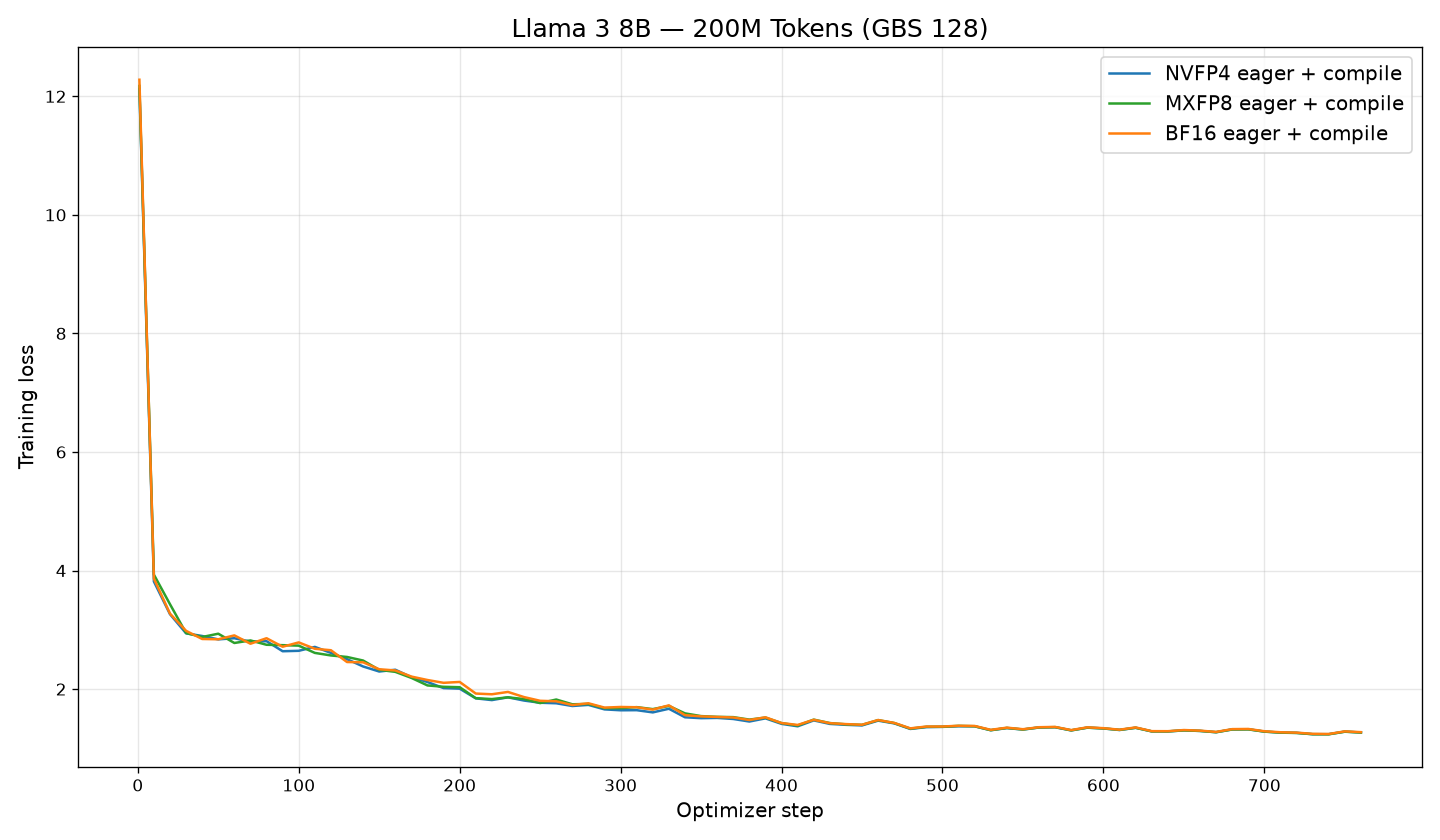
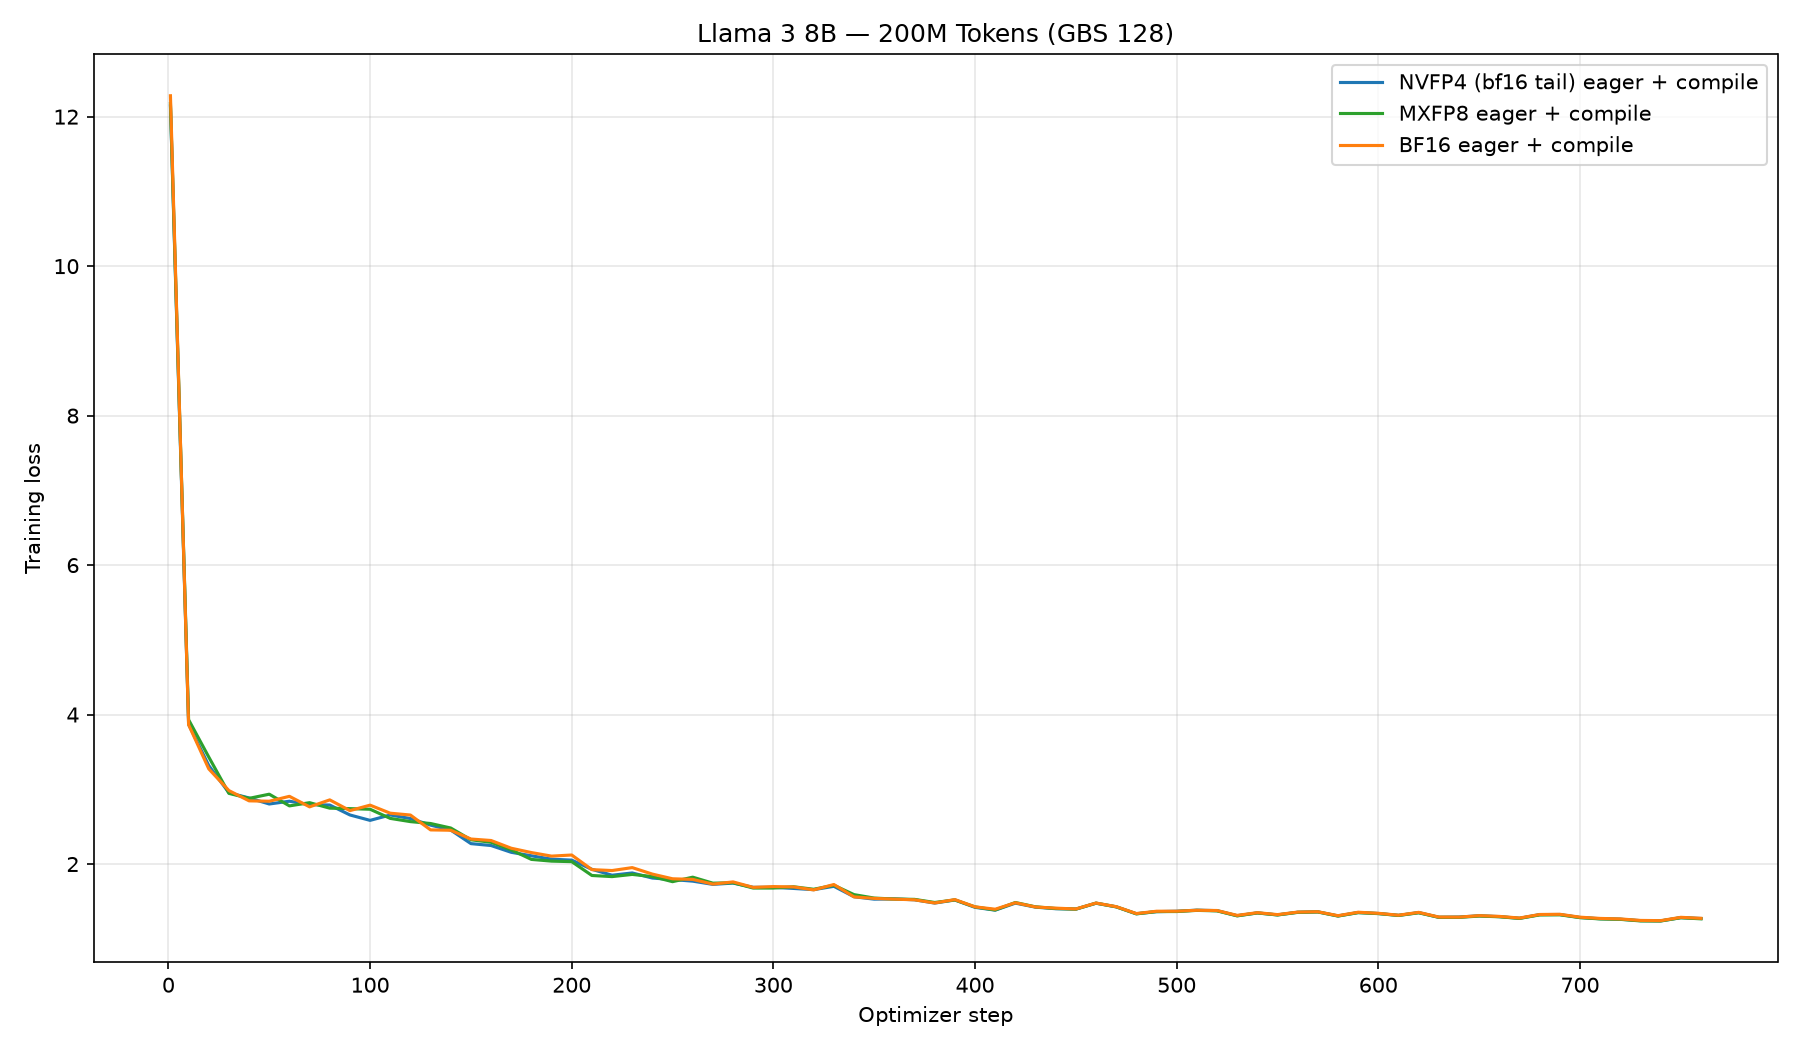
Add NVFP4 bf16-tail run to Llama3 eager-trainer comparison
Wire the mixed-precision NVFP4 recipe (last ~15% of decoder layers kept in
bf16) into run_titan.py and run it at the same config as the prior 200M-token
fsdp4 comparison runs, then regenerate the training-loss plot.

- run_titan.py: add --nvfp4-mixed flag (single + multi) selecting the
  llama3_8b_nvfp4_mixed config flavor. Existing --nvfp4 (full NVFP4) unchanged.
- Bump third_party/torchtitan to a057292 (adds the *_nvfp4_mixed flavors).
- plot_eager_trainer_loss.py: reusable script that regenerates the PNG from
  the run logs (parser reused from run_titan.py).
- run_logs/eager_trainer: new fsdp4 nvfp4_mixed log (.txt) + notes (.md);
  regenerated PNG with the NVFP4 line relabeled "NVFP4 (bf16 tail)".

Final loss @ step 760: 1.2715 (nvfp4 full 1.2687, mxfp8 1.2671, bf16 1.2738).
Throughput 30,040 tps, memory 110.95 GiB -- ~5% slower / ~8 GiB more than full
NVFP4 (bf16-tail GEMMs+weights), still well ahead of MXFP8/BF16.

diff --git a/llama3/run_titan.py b/llama3/run_titan.py
@@ -163,6 +163,16 @@ def _hf_assets_path_for_config(base_config: str) -> str | None:
     return None
 
 
+def _nvfp4_flavor_suffix(args) -> str:
+    # NVFP4 flavors bake in the converter + compile; `_nvfp4_mixed` additionally
+    # keeps the last ~15% of decoder layers in bf16 (bf16-tail recipe).
+    if args.nvfp4_mixed:
+        return "_nvfp4_mixed"
+    if args.nvfp4:
+        return "_nvfp4"
+    return ""
+
+
 def _precision_flags(nvfp4: bool, mxfp8: bool) -> list[str]:
     # NVFP4 is selected via the `_nvfp4` config flavor (NVFP4LinearConverter baked
     # in, compile enabled), not an override import. MXFP8 still uses its override.
@@ -171,7 +181,9 @@ def _precision_flags(nvfp4: bool, mxfp8: bool) -> list[str]:
     return []
 
 
-def _precision_tag(nvfp4: bool, mxfp8: bool) -> str:
+def _precision_tag(nvfp4: bool, mxfp8: bool, nvfp4_mixed: bool = False) -> str:
+    if nvfp4_mixed:
+        return "nvfp4_mixed"
     if nvfp4:
         return "nvfp4"
     if mxfp8:
@@ -234,14 +246,14 @@ def run_single(args):
     smoke = args.smoke
     base_config = "llama3_debugmodel" if smoke else "llama3_8b"
     module = _trainer_module(args.graph)
-    flavor = base_config + ("_nvfp4" if args.nvfp4 else "")
+    flavor = base_config + _nvfp4_flavor_suffix(args)
     config = _trainer_config(flavor, args.graph)
     dataset = "c4_test" if smoke else "c4"
     steps = 10 if smoke else SINGLE_STEPS_CEILING
     wall_hours = 5 / 60 if smoke else SINGLE_WALL_HOURS
     gpu = args.gpu
 
-    precision = _precision_tag(args.nvfp4, args.mxfp8)
+    precision = _precision_tag(args.nvfp4, args.mxfp8, args.nvfp4_mixed)
     label_parts = [precision]
     if args.graph:
         label_parts.append("graph")
@@ -408,10 +420,17 @@ def _multi_cmd(
 
 
 def _multi_label(
-    exp: dict, compile_enabled: bool, nvfp4: bool, mxfp8: bool, graph: bool
+    exp: dict,
+    compile_enabled: bool,
+    nvfp4: bool,
+    mxfp8: bool,
+    graph: bool,
+    nvfp4_mixed: bool = False,
 ) -> str:
     parts = [exp["name"]]
-    if nvfp4:
+    if nvfp4_mixed:
+        parts.append("nvfp4_mixed")
+    elif nvfp4:
         parts.append("nvfp4")
     elif mxfp8:
         parts.append("mxfp8")
@@ -435,7 +454,7 @@ def run_multi(args):
     # smoke run with a TP shape.
     needs_8b = (
         smoke
-        and args.nvfp4
+        and (args.nvfp4 or args.nvfp4_mixed)
         and any(
             e["tp"] > 1
             for e in MULTI_EXPERIMENTS
@@ -444,7 +463,7 @@ def run_multi(args):
     )
     base_config = "llama3_8b" if needs_8b or not smoke else "llama3_debugmodel"
     module = _trainer_module(args.graph)
-    flavor = base_config + ("_nvfp4" if args.nvfp4 else "")
+    flavor = base_config + _nvfp4_flavor_suffix(args)
     config = _trainer_config(flavor, args.graph)
     if args.data is None:
         args.data = "c4_test" if smoke else "c4"
@@ -462,7 +481,7 @@ def run_multi(args):
             f"Choices: {[e['name'] for e in MULTI_EXPERIMENTS]}"
         )
 
-    precision = _precision_tag(args.nvfp4, args.mxfp8)
+    precision = _precision_tag(args.nvfp4, args.mxfp8, args.nvfp4_mixed)
     print()
     print("=" * 72)
     print(
@@ -500,7 +519,7 @@ def run_multi(args):
         world_size = exp["tp"] * exp["fsdp"]
         batch_size = args.batch_size or exp["batch_size"]
         label = _multi_label(
-            exp, args.compile, args.nvfp4, args.mxfp8, args.graph
+            exp, args.compile, args.nvfp4, args.mxfp8, args.graph, args.nvfp4_mixed
         )
         log_path = RESULTS_DIR / f"{ts}_titan_multi_{label}.txt"
 
@@ -660,6 +679,11 @@ def main():
         help="Enable NVFP4 via the `_nvfp4` config flavor (converter; compile baked in)",
     )
     single_precision.add_argument(
+        "--nvfp4-mixed",
+        action="store_true",
+        help="Enable mixed NVFP4 via the `_nvfp4_mixed` flavor (last ~15%% of layers kept in bf16)",
+    )
+    single_precision.add_argument(
         "--mxfp8",
         action="store_true",
         help=f"Enable torchao MXFP8 via override module {MXFP8_OVERRIDE_MODULE}",
@@ -723,6 +747,11 @@ def main():
         "--nvfp4",
         action="store_true",
         help="Enable NVFP4 via the `_nvfp4` config flavor (converter; compile baked in)",
+    )
+    multi_precision.add_argument(
+        "--nvfp4-mixed",
+        action="store_true",
+        help="Enable mixed NVFP4 via the `_nvfp4_mixed` flavor (last ~15%% of layers kept in bf16)",
     )
     multi_precision.add_argument(
         "--mxfp8",

diff --git a/llama3/plot_eager_trainer_loss.py b/llama3/plot_eager_trainer_loss.py
@@ -1,0 +1,71 @@
+#!/usr/bin/env python3
+"""Regenerate the eager-Trainer training-loss comparison plot.
+
+Parses step/loss pairs from the TorchTitan run logs in run_logs/eager_trainer/
+and plots NVFP4 (bf16-tail mixed recipe) vs MXFP8 vs BF16 for the 200M-token,
+GBS-128 fsdp4 runs.
+
+    python plot_eager_trainer_loss.py
+"""
+
+import re
+from pathlib import Path
+
+import matplotlib.pyplot as plt
+
+LOG_DIR = Path(__file__).resolve().parent / "run_logs" / "eager_trainer"
+OUT_PNG = LOG_DIR / "training_loss_nvfp4_vs_mxfp8_vs_bf16_eager_compile_200m_tokens.png"
+
+# Same parse as run_titan.py: strip ANSI, then read `step: N ... loss: X`.
+_ANSI_RE = re.compile(r"\x1b\[[0-9;]*m")
+_STEP_RE = re.compile(r"step:\s*(\d+).*?loss:\s*([\d.]+)")
+
+# (log filename, legend label, color). Colors match the prior PNG.
+SERIES = [
+    (
+        "20260727_titan_fsdp4_nvfp4_mixed_eager_compile_200m_gbs128_lbs32_ga1.txt",
+        "NVFP4 (bf16 tail) eager + compile",
+        "C0",
+    ),
+    (
+        "20260713_titan_fsdp4_mxfp8_eager_compile_200m_gbs128_lbs32_ga1.txt",
+        "MXFP8 eager + compile",
+        "C2",
+    ),
+    (
+        "20260712_titan_fsdp4_bf16_eager_compile_200m_gbs128_lbs32_ga1.txt",
+        "BF16 eager + compile",
+        "C1",
+    ),
+]
+
+
+def parse_log(path: Path) -> tuple[list[int], list[float]]:
+    steps, losses = [], []
+    with open(path) as f:
+        for line in f:
+            m = _STEP_RE.search(_ANSI_RE.sub("", line))
+            if m:
+                steps.append(int(m.group(1)))
+                losses.append(float(m.group(2)))
+    return steps, losses
+
+
+def main() -> None:
+    plt.figure(figsize=(12, 7))
+    for filename, label, color in SERIES:
+        steps, losses = parse_log(LOG_DIR / filename)
+        plt.plot(steps, losses, label=label, color=color)
+
+    plt.title("Llama 3 8B — 200M Tokens (GBS 128)")
+    plt.xlabel("Optimizer step")
+    plt.ylabel("Training loss")
+    plt.grid(True, alpha=0.3)
+    plt.legend(loc="upper right")
+    plt.tight_layout()
+    plt.savefig(OUT_PNG, dpi=150)
+    print(f"wrote {OUT_PNG}")
+
+
+if __name__ == "__main__":
+    main()

diff --git a/llama3/run_logs/eager_trainer/20260727_titan_fsdp4_nvfp4_mixed_eager_compile_200m_gbs128_lbs32_ga1.md b/llama3/run_logs/eager_trainer/20260727_titan_fsdp4_nvfp4_mixed_eager_compile_200m_gbs128_lbs32_ga1.md
@@ -1,0 +1,55 @@
+# TorchTitan NVFP4 (bf16 tail) Eager Trainer Compile 200M Token Run
+
+Date: 2026-07-27
+
+## Recipe
+
+Mixed-precision NVFP4: the leading decoder layers convert to NVFP4 while the last
+`ceil(n_layers * 0.15)` layers (plus the lm_head) stay in bf16 — the final layers are the most
+precision-sensitive. Selected via the `llama3_8b_nvfp4_mixed` config flavor added in torchtitan
+commit `a057292c` ("Add mixed-precision NVFP4 configs (bf16 tail)"); the flavor computes the
+converter `fqns` include-list with `nvfp4_bf16_tail_fqns(n_layers, 0.15)`. For Llama 3 8B
+(32 layers) this keeps layers 27–31 in bf16 and converts layers 0–26 to NVFP4.
+
+## Command
+
+Run from `/home/me/nvfp4/llama3` (via `run_titan.py multi --only fsdp4 --nvfp4-mixed
+--batch-size 32 --total-tokens 200000000`):
+
+```bash
+PYTHONUNBUFFERED=1 torchrun --standalone --nproc_per_node 4 --local-ranks-filter 0 \
+  -m torchtitan.train \
+  --module llama3 \
+  --config llama3_8b_nvfp4_mixed \
+  --parallelism.tensor_parallel_degree 1 \
+  --parallelism.data_parallel_shard_degree 4 \
+  --training.local_batch_size 32 \
+  --training.seq_len 2048 \
+  --training.steps 763 \
+  --dataloader.dataset c4 \
+  --metrics.log_freq 10 \
+  --optimizer.param-groups.0.optimizer-kwargs.lr 0.0003 \
+  --hf-assets-path ./tests/assets/tokenizer
+```
+
+`torch.compile` is **not** passed on the CLI: the `llama3_8b_nvfp4_mixed` config function enables it
+(`CompileConfig(enable=True, components=["model"])`), since NVFP4's dynamic quantization needs
+compile for competitive perf. Global batch size is not passed either; it defaults to
+`local_batch_size × dp_shard = 128` (gradient accumulation 1).
+
+## Result
+
+Final (step 760): loss **1.2715**, tps **30,040**, tflops **1449.45**, memory **110.95 GiB (60.2%)**.
+
+Comparison at step 760 with the same-config baselines in this directory:
+
+| Run | Final loss | Tps | Memory |
+| --- | --- | --- | --- |
+| NVFP4 (bf16 tail, this run) | 1.2715 | 30,040 | 110.95 GiB (60.2%) |
+| NVFP4 (full) | 1.2687 | 31,758 | 103.00 GiB (55.9%) |
+| MXFP8 | 1.2671 | 28,084 | 179.94 GiB (97.6%) |
+| BF16 | 1.2738 | 21,919 | 174.49 GiB (94.7%) |
+
+The bf16 tail costs ~5% throughput and ~8 GiB versus full NVFP4 (the last 5 layers run bf16 GEMMs
+and hold bf16 weights), while staying well ahead of MXFP8/BF16 on both. Final loss lands on par
+with all three precisions.
